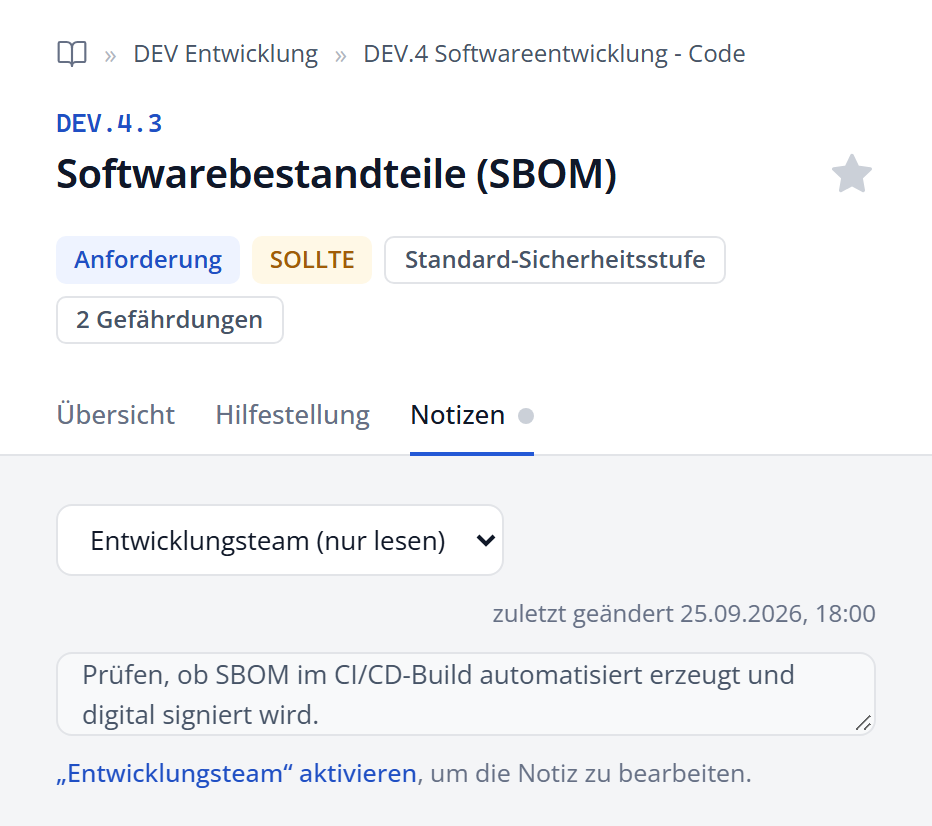
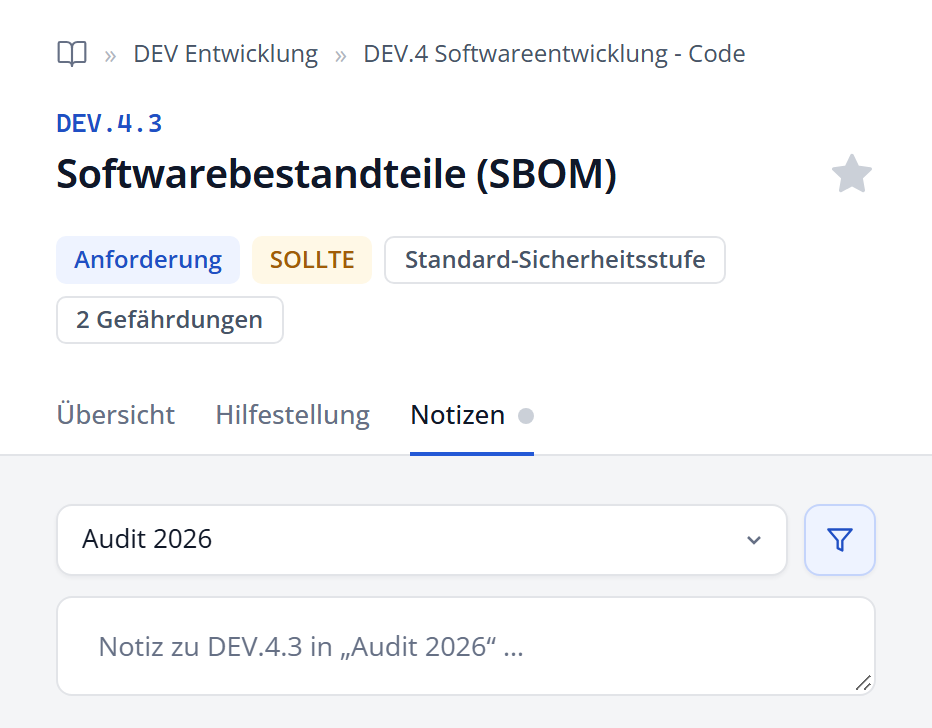
feat: update changelog and documentation for version 1.1.11; enhance notes functionality and UI

diff --git a/src/index.html b/src/index.html
@@ -2323,33 +2323,41 @@
 
                 <!-- Notizen: nur die aktive Liste ist beschreibbar, andere Listen nur lesbar -->
                 <div v-else-if="detailActiveTab === 'notes'" class="stack">
-                  <div v-if="notesViewList" class="notes-panel">
+                  <div class="notes-panel">
+                    <!-- Auswahl der aktiven Liste (wie in der Filterleiste); ohne Listen steht dort die Merkliste -->
                     <div class="notes-head">
-                      <label v-if="notesViewOptions.length > 1" class="notes-select-label">
-                        <span class="sr-only">Liste</span>
-                        <select class="input notes-select" :value="notesViewList.id" @change="notesViewListId = $event.target.value">
-                          <option v-for="l in notesViewOptions" :key="l.id" :value="l.id">
-                            {{ l.name }}{{ l.id === writeList.id ? ' (aktiv)' : ' (nur lesen)' }}
+                      <label class="notes-select-label">
+                        <span class="sr-only">Aktive Liste</span>
+                        <select class="notes-select" :value="writeList.id" title="Aktive Liste für Favoriten und Notizen" @change="setActiveList($event.target.value)">
+                          <option v-for="l in notesListOptions" :key="l.id" :value="l.id">
+                            {{ l.name }}
                           </option>
                         </select>
+                        <svg class="icon-xs notes-select-chev" viewBox="0 0 24 24" fill="none" stroke="currentColor" stroke-width="2.5" aria-hidden="true"><path d="m6 9 6 6 6-6"/></svg>
                       </label>
-                      <span v-else class="notes-list-name">{{ notesViewList.name }}</span>
-                      <span v-if="notesViewEntry?.updatedAt && notesViewEntry.note" class="notes-meta">zuletzt geändert {{ formatDate(notesViewEntry.updatedAt) }}</span>
+                      <button
+                        class="icon-btn btn-outline notes-filter"
+                        :class="{ active: !notesAllLists }"
+                        :aria-pressed="!notesAllLists"
+                        @click="notesAllLists = !notesAllLists"
+                        :title="notesAllLists ? 'Nur im Filter verfügbare Listen anbieten' : 'Alle Listen anbieten'"
+                        aria-label="Nur im Filter verfügbare Listen anbieten"
+                      >
+                        <svg class="icon-sm" viewBox="0 0 24 24" fill="none" stroke="currentColor" stroke-width="2" stroke-linecap="round" stroke-linejoin="round" aria-hidden="true"><path d="M22 3H2l8 9.46V19l4 2v-8.54z"/></svg>
+                      </button>
                     </div>
-                    <!-- Ein Element für beide Fälle: in der aktiven Liste beschreibbar, sonst reiner (nicht fokussierbarer) Text -->
                     <div
                       class="input notes-text"
-                      v-plain-text="notesViewEntry?.note || ''"
-                      :contenteditable="notesViewList.id === writeList.id ? 'plaintext-only' : 'false'"
-                      :role="notesViewList.id === writeList.id ? 'textbox' : null"
-                      :aria-multiline="notesViewList.id === writeList.id ? 'true' : null"
-                      :aria-label="'Notiz in Liste ' + notesViewList.name"
-                      :data-placeholder="notesViewList.id === writeList.id ? 'Notiz zu ' + selectedControl.id + ' in „' + notesViewList.name + '“ …' : 'Keine Notiz in dieser Liste.'"
+                      v-plain-text="notesEntry?.note || ''"
+                      contenteditable="plaintext-only"
+                      role="textbox"
+                      aria-multiline="true"
+                      :aria-label="'Notiz in Liste ' + writeList.name"
+                      :data-placeholder="'Notiz zu ' + selectedControl.id + ' in „' + writeList.name + '“ …'"
+                      :aria-placeholder="'Notiz zu ' + selectedControl.id + ' in „' + writeList.name + '“'"
                       @input="updateNote($event.target.innerText)"
                     ></div>
-                    <p v-if="notesViewList.id !== writeList.id" class="notes-readonly">
-                      <button class="link-btn" @click="setActiveList(notesViewList.id)">„{{ notesViewList.name }}“ aktivieren</button>, um die Notiz zu bearbeiten.
-                    </p>
+                    <p v-if="notesEntry?.updatedAt && notesEntry.note" class="notes-meta">zuletzt geändert <time :datetime="notesEntry.updatedAt">{{ formatDate(notesEntry.updatedAt) }}</time></p>
                   </div>
                 </div>
 

diff --git a/src/js/app.js b/src/js/app.js
@@ -69,7 +69,7 @@ const PROJECT_URL = 'https://www.grundschutz-explorer.de';
 // Handbuch: Weiterleitung auf die aktuelle PDF, vom Release-Schritt scripts/release/steps/80-redirect.py erzeugt
 const MANUAL_PATH = 'manual/';
 
-const APP_VERSION = '1.1.10';
+const APP_VERSION = '1.1.11';
 
 // Standardliste: nimmt Stern und Notizen auf, solange keine andere Liste aktiv ist (wird bei Bedarf angelegt)
 const DEFAULT_LIST_NAME = 'Merkliste';
@@ -252,8 +252,8 @@ const app = createApp({
     const listEntries = ref({}); // entryKey → { key, listId, controlId, note, createdAt, updatedAt }
     // Nur eine Liste ist aktiv: in sie schreiben Stern und Notizfeld
     const activeListId = ref('');
-    // Im Reiter "Notizen" angezeigte Liste (aktive Liste oder eine andere, nur lesbar)
-    const notesViewListId = ref('');
+    // Auswahlfeld im Reiter "Notizen": alle Listen anbieten statt nur der im Filter verfügbaren
+    const notesAllLists = ref(false);
     // Inline-Eingabe in der Filterleiste: { id: '' (neue Liste) | Listen-ID (umbenennen), name }
     const listEdit = ref(null);
     const listImportInput = ref(null);
@@ -841,26 +841,31 @@ const app = createApp({
         : `${where}\n\nKlicken: in „${writeList.value.name}“ aufnehmen`;
     });
 
-    // Listen, deren Notiz im Reiter "Notizen" wählbar ist: die Zielliste und alle nicht ausgeschlossenen mit Notiz
-    const notesViewOptions = computed(() => {
+    // Nicht ausgeschlossene Listen außer der Zielliste, die eine Notiz zur gewählten Anforderung haben
+    const otherNoteListIds = computed(() => {
       const ctrl = selectedControl.value;
-      if (!ctrl) return [];
+      const ids = new Set();
+      if (!ctrl) return ids;
       const excluded = activeFilterSpec.value.exc.list;
-      const options = [writeList.value];
-      for (const list of sortedLists.value) {
+      for (const list of lists.value) {
         if (list.id === writeList.value.id || excluded.has(list.id)) continue;
-        if (listEntries.value[entryKey(list.id, ctrl.id)]?.note?.trim()) options.push(list);
+        if (listEntries.value[entryKey(list.id, ctrl.id)]?.note?.trim()) ids.add(list.id);
       }
-      return options;
+      return ids;
     });
 
-    const notesViewList = computed(
-      () => notesViewOptions.value.find((l) => l.id === notesViewListId.value) || notesViewOptions.value[0] || null
-    );
+    // Im Reiter "Notizen" wählbare Listen in der Reihenfolge der Filterleiste: die Zielliste und die im Filter
+    // verfügbaren (mit ✓ gewählte, sonst alle nicht ausgeschlossenen) bzw. alle; ohne Listen nur die Merkliste
+    const notesListOptions = computed(() => {
+      if (!activeList.value) return [writeList.value];
+      const { inc, exc } = activeFilterSpec.value;
+      const available = (id) => (inc.list.size ? inc.list.has(id) : !exc.list.has(id));
+      return sortedLists.value.filter((l) => l.id === writeList.value.id || notesAllLists.value || available(l.id));
+    });
 
-    const notesViewEntry = computed(() =>
-      notesViewList.value?.id && selectedControl.value
-        ? listEntries.value[entryKey(notesViewList.value.id, selectedControl.value.id)] || null
+    const notesEntry = computed(() =>
+      writeList.value.id && selectedControl.value
+        ? listEntries.value[entryKey(writeList.value.id, selectedControl.value.id)] || null
         : null
     );
 
@@ -888,7 +893,7 @@ const app = createApp({
       if (!ctrl) return '';
       const target = writeList.value.id;
       if (target && listEntries.value[entryKey(target, ctrl.id)]?.note?.trim()) return 'here';
-      return notesViewOptions.value.some((l) => l.id !== target) ? 'other' : '';
+      return otherNoteListIds.value.size ? 'other' : '';
     });
 
     // Selected Control
@@ -1339,11 +1344,8 @@ const app = createApp({
     watch([filters, () => activeTags.value], () => {
       previousControlId.value = null;
     }, { deep: true });
-    // Beim Wechsel der Anforderung ausstehende Notizen sofort speichern und wieder die aktive Liste zeigen
-    watch(selectedControlId, () => {
-      flushNoteSaves();
-      notesViewListId.value = '';
-    });
+    // Beim Wechsel der Anforderung ausstehende Notizen sofort speichern
+    watch(selectedControlId, flushNoteSaves);
 
     async function restorePersistedState() {
       try {
@@ -3182,10 +3184,9 @@ const app = createApp({
       activeList,
       writeList,
       listMarks,
-      notesViewListId,
-      notesViewOptions,
-      notesViewList,
-      notesViewEntry,
+      notesAllLists,
+      notesListOptions,
+      notesEntry,
       listEdit,
       listImportInput,
       listMenuId,

diff --git a/src/css/app.css b/src/css/app.css
@@ -701,19 +701,28 @@ ul { margin: 0; padding: 0; list-style: none; }
 .note-dot-other { background: var(--list-other); }
 
 .notes-panel { display: grid; gap: 10px; }
-.notes-head { display: flex; align-items: center; gap: 10px; flex-wrap: wrap; }
-.notes-select { width: auto; max-width: 100%; height: 32px; padding: 0 8px; }
-.notes-list-name { font-size: calc(13px * var(--font-scale)); font-weight: 600; color: var(--text); }
-.notes-meta { margin-left: auto; font-size: calc(12px * var(--font-scale)); color: var(--text-3); }
-.notes-text {
-  height: auto; min-height: 240px; padding: 10px 12px; resize: vertical; overflow: auto;
+.notes-head { display: flex; align-items: center; gap: 8px; }
+.icon-btn.notes-filter { width: 36px; height: 36px; flex-shrink: 0; }
+.notes-filter:focus-visible { outline: none; border-color: var(--accent); box-shadow: 0 0 0 3px var(--accent-soft); }
+/* Auswahlfeld im Stil des Suchfelds, mit eigenem Pfeil statt des Browser-Pfeils */
+.notes-select-label { position: relative; flex: 1; min-width: 0; display: flex; align-items: center; }
+.notes-select {
+  appearance: none; width: 100%; height: 36px; padding: 0 34px 0 12px;
+  border-radius: var(--radius); border: 1px solid var(--border); background: var(--surface); box-shadow: var(--shadow-sm);
+  color: var(--text); font: inherit; font-size: calc(13px * var(--font-scale)); text-overflow: ellipsis; cursor: pointer;
+  transition: border-color 0.12s, box-shadow 0.12s, background 0.12s;
+}
+.notes-select:hover:not(:focus) { background: var(--surface-hover); border-color: var(--border-strong); }
+.notes-select:focus { outline: none; border-color: var(--accent); box-shadow: 0 0 0 3px var(--accent-soft); }
+.notes-select-chev { position: absolute; right: 11px; color: var(--text-3); pointer-events: none; }
+.notes-meta { margin: 0; text-align: right; font-size: calc(12px * var(--font-scale)); color: var(--text-3); }
+/* Innenabstand wie beim Wortlaut im Reiter Übersicht; .input steht weiter unten und setzt sonst eigene Abstände */
+.input.notes-text {
+  height: auto; min-height: 240px; padding: 14px 20px; resize: vertical; overflow: auto;
   white-space: pre-wrap; overflow-wrap: anywhere; cursor: text;
   font-size: calc(13.5px * var(--font-scale)); line-height: 1.55;
 }
-.notes-text[contenteditable="false"] { cursor: default; background: var(--surface-2); color: var(--text-2); }
 .notes-text:empty::before { content: attr(data-placeholder); color: var(--text-3); pointer-events: none; }
-.notes-readonly { margin: 0; font-size: calc(12.5px * var(--font-scale)); color: var(--text-3); }
-.notes-readonly .link-btn { font-size: inherit; }
 
 /* Main split */
 .split { flex: 1; display: flex; min-width: 0; min-height: 0; overflow: hidden; }

diff --git a/scripts/release/project/scenes.py b/scripts/release/project/scenes.py
@@ -354,16 +354,14 @@ def detail_notizen(env):
         return _detail(s, bottom + 20)
 
 
-# Notiz der nicht aktiven Liste „Entwicklungsteam“ (DEV.4.3, nur lesbar)
+# DEV.4.3: keine Notiz in der aktiven Liste, aber in „Entwicklungsteam“ (grauer Punkt am Reiter)
 def detail_notizen_andere(env):
     with handbuch(env, height=1600) as s:
         s.show_control("DEV.4.3", "notes")
-        s.act("vm.notesViewListId = 'list-team'")
-        s.wait_for("document.querySelector('.notes-readonly')")
-        # Das hohe, fast leere Notizfeld auf den Text verkleinern, damit der Hinweis direkt darunter steht
+        # Das hohe, leere Notizfeld auf den Platzhalter verkleinern
         s.js("(() => { const el = document.querySelector('.notes-text'); el.style.minHeight = '0'; el.style.height = 'auto'; })()")
         s.wait(300)
-        return _detail(s, s.bottom_of("document.querySelector('.notes-readonly')") + 16)
+        return _detail(s, s.bottom_of("document.querySelector('.notes-text')") + 16)
 
 
 # Stern in der Titelzeile als kleines quadratisches Bild

diff --git a/docs/handbuch/06_listen_und_notizen.md b/docs/handbuch/06_listen_und_notizen.md
@@ -58,19 +58,19 @@ Notizen erfassen Sie in der Detailansicht im Reiter **Notizen**. Sie gehören im
 
 Ein farbiger Punkt am Reiter signalisiert den Notizen-Status:
 
-| Markierung am Reiter | Zustand | Bedeutung | Bearbeitbarkeit |
+| Markierung am Reiter | Zustand | Bedeutung | Textfeld |
 | :---: | :--- | :--- | :--- |
-| **Grüner Punkt** | Notiz in aktiver Liste | Zur Anforderung liegt eine Notiz in der derzeit aktiven Liste vor. | Im Textfeld bearbeitbar; der Zeitstempel unter dem Feld nennt die letzte Änderung. |
-| **Grauer Punkt** | Notiz in anderer Liste | In der aktiven Liste gibt es keine Notiz, jedoch in mindestens einer anderen Liste. | Schreibgeschützt angezeigt; mit *„[Listenname]“ aktivieren* umschaltbar. |
-| **Kein Punkt** | Keine Notiz vorhanden | In keiner Liste ist eine Notiz zu dieser Anforderung hinterlegt. | Das Textfeld ist leer; eine Eingabe legt die Notiz direkt in der aktiven Liste an. |
+| **Grüner Punkt** | Notiz in aktiver Liste | Zur Anforderung liegt eine Notiz in der derzeit aktiven Liste vor. | Zeigt die Notiz; der Zeitstempel darunter nennt die letzte Änderung. |
+| **Grauer Punkt** | Notiz in anderer Liste | In der aktiven Liste gibt es keine Notiz, jedoch in mindestens einer anderen Liste. | Leer; über das Auswahlfeld wechseln Sie zur Liste mit der Notiz. |
+| **Kein Punkt** | Keine Notiz vorhanden | In keiner Liste ist eine Notiz zu dieser Anforderung hinterlegt. | Leer; eine Eingabe legt die Notiz in der aktiven Liste an. |
 
-Gibt es Notizen in mehreren Listen, wechseln Sie über das Auswahlfeld über dem Textfeld zwischen diesen. Notizen inaktiver Listen sind schreibgeschützt, lassen sich aber über die Schaltfläche unter dem Hinweistext aktivieren und bearbeiten.
+Das Auswahlfeld über dem Textfeld zeigt die aktive Liste. Wählen Sie dort eine andere Liste, wird sie wie über die Filterleiste zur aktiven Liste, und ihre Notiz erscheint im Textfeld. Angeboten werden die im Filter verfügbaren Listen: die mit ✓ gewählten, sonst alle nicht ausgeschlossenen. Die Schaltfläche mit dem Filtersymbol daneben schaltet zwischen diesen und allen Listen um. Unter dem Textfeld steht, wann die Notiz zuletzt geändert wurde.
 
-![Reiter Notizen mit schreibgeschützter Notiz einer anderen Liste](bilder/detail-notizen-andere.png){width=48%}
+![Reiter Notizen ohne Notiz in der aktiven Liste](bilder/detail-notizen-andere.png){width=48%}
 
 /// figure-caption
     attrs: {id: fig-detail-notizen-andere}
-Notiz einer anderen Liste
+Notiz in anderer Liste
 ///
 
 In der Anforderungsliste weist ein kleines Notizsymbol (grün für die aktive Liste, grau für eine andere Liste) direkt auf vorhandene Notizen hin.

diff --git a/docs/handbuch/05_detailansicht.md b/docs/handbuch/05_detailansicht.md
@@ -73,7 +73,7 @@ Im Reiter **Notizen** halten Sie eigene Anmerkungen zur gewählten Anforderung f
 Reiter „Notizen“
 ///
 
-Ausführliche Erläuterungen zu Notizen, den Zuständen des Punkts am Reiter sowie dem Lesen und Aktivieren von Notizen anderer Listen finden Sie im [Kapitel „Listen und Notizen“](#kap-listen-notizen) (siehe [Abbildung](#fig-detail-notizen-andere)).
+Ausführliche Erläuterungen zu Notizen, den Zuständen des Punkts am Reiter sowie dem Wechsel zwischen den Listen finden Sie im [Kapitel „Listen und Notizen“](#kap-listen-notizen) (siehe [Abbildung](#fig-detail-notizen-andere)).
 
 ## Reiter „Änderungen“
 

diff --git a/CHANGELOG.md b/CHANGELOG.md
@@ -2,6 +2,13 @@
 
 Alle nennenswerten Änderungen am Grundschutz++ Explorer.
 
+## [1.1.11] – 2026-09-30
+
+### Geändert
+
+- Reiter „Notizen“: Das Auswahlfeld wählt direkt die aktive Liste, das Notizfeld ist damit immer beschreibbar.
+- Reiter „Notizen“: Ein Filterknopf neben dem Auswahlfeld bietet wahlweise alle Listen oder nur die im Filter verfügbaren an.
+
 ## [1.1.10] – 2026-09-30
 
 - Umstellung auf modulares Release-Script
